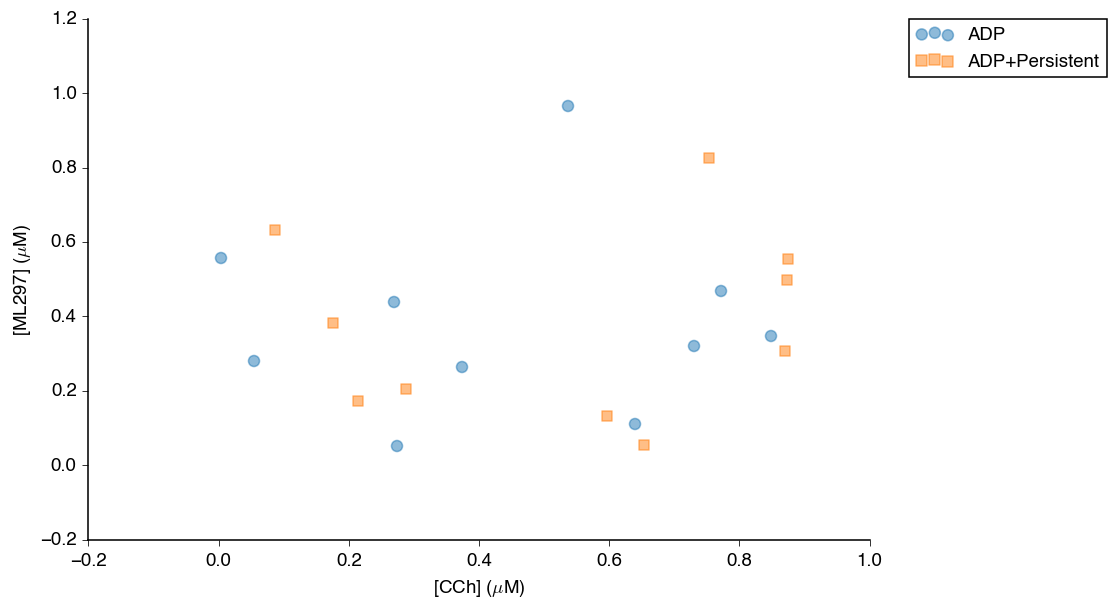
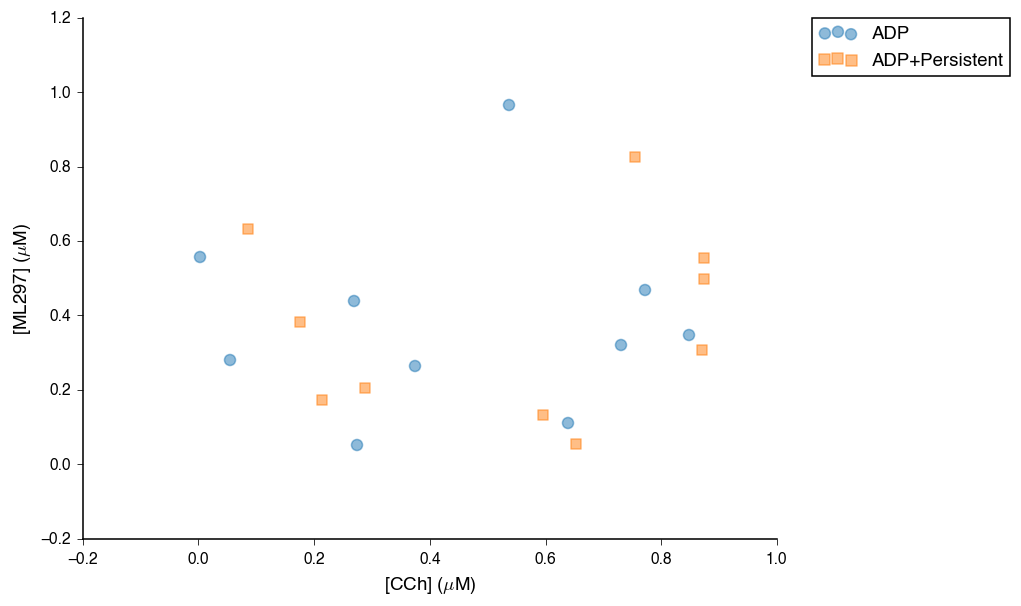
modified 070415

diff --git a/Plots/PlotStyles.py b/Plots/PlotStyles.py
@@ -11,13 +11,13 @@ from collections import OrderedDict
 
 def rgb2hex(c):
     """Convert from RGB triplets to hex string"""
-    return '#{:02x}{:02x}{:02x}'.format(c[0], c[1], c[2])
+    return('#{:02x}{:02x}{:02x}'.format(c[0], c[1], c[2]))
     
 def hex2rgb(v):
     """Convert a hex string to rgb tuple triplet"""
     v = v.lstrip('#')
     lv = len(v)
-    return tuple(int(v[i:i+lv/3], 16) for i in range(0, lv, lv/3))
+    return(tuple(int(v[i:i+lv/3], 16) for i in range(0, lv, lv/3)))
     
 def rgbdecimal2int(c):
     """ scale RGB value from [0, 1] to [0, 255]"""
@@ -26,9 +26,45 @@ def rgbdecimal2int(c):
 def rgbint2decimal(c):
     """scale RGB value from [0, 255] to [0, 1]"""
     return(c[0]/255.0, c[1]/255.0, c[2]/255.0)
+    
+def ColorBrewer(cname='PuBuGn'):
+    """http://colorbrewer2.org/, used by web designers and R's ggplot"""
+    return({
+    'BuGn' : OrderedDict([(0, (247,252,253)),(1, (229,245,249)),(2, (204,236,230)),(3, (153,216,201)),(4, (102,194,164)),(5, (65,174,118)),(6, (35,139,69)),(7, (0,109,44)),(8, (0,68,27))]),
+    'BuPu' : OrderedDict([(0, (247,252,253)),(1, (224,236,244)),(2, (191,211,230)),(3, (158,188,218)),(4, (140,150,198)),(5, (140,107,177)),(6, (136,65,157)),(7, (129,15,124)),(8, (77,0,75))]),
+    'GnBu' : OrderedDict([(0, (247,252,240)),(1, (224,243,219)),(2, (204,235,197)),(3, (168,221,181)),(4, (123,204,196)),(5, (78,179,211)),(6, (43,140,190)),(7, (8,104,172)),(8, (8,64,129))]),
+    'OrRd' : OrderedDict([(0, (255,247,236)),(1, (254,232,200)),(2, (253,212,158)),(3, (253,187,132)),(4, (252,141,89)),(5, (239,101,72)),(6, (215,48,31)),(7, (179,0,0)),(8, (127,0,0))]),
+    'PuBu' : OrderedDict([(0, (255,247,251)),(1, (236,231,242)),(2, (208,209,230)),(3, (166,189,219)),(4, (116,169,207)),(5, (54,144,192)),(6, (5,112,176)),(7, (4,90,141)),(8, (2,56,88))]),
+    'PuBuGn' : OrderedDict([(0, (255,247,251)),(1, (236,226,240)),(2, (208,209,230)),(3, (166,189,219)),(4, (103,169,207)),(5, (54,144,192)),(6, (2,129,138)),(7, (1,108,89)),(8, (1,70,54))]),
+    'PuRd' : OrderedDict([(0, (247,244,249)),(1, (231,225,239)),(2, (212,185,218)),(3, (201,148,199)),(4, (223,101,176)),(5, (231,41,138)),(6, (206,18,86)),(7, (152,0,67)),(8, (103,0,31))]),
+    'RdPu' : OrderedDict([(0, (255,247,243)),(1, (253,224,221)),(2, (252,197,192)),(3, (250,159,181)),(4, (247,104,161)),(5, (221,52,151)),(6, (174,1,126)),(7, (122,1,119)),(8, (73,0,106))]),
+    'YlGn' : OrderedDict([(0, (255,255,229)),(1, (247,252,185)),(2, (217,240,163)),(3, (173,221,142)),(4, (120,198,121)),(5, (65,171,93)),(6, (35,132,67)),(7, (0,104,55)),(8, (0,69,41))]),
+    'YlGnBu' : OrderedDict([(0, (255,255,217)),(1, (237,248,177)),(2, (199,233,180)),(3, (127,205,187)),(4, (65,182,196)),(5, (29,145,192)),(6, (34,94,168)),(7, (37,52,148)),(8, (8,29,88))]),
+    'YlOrBr' : OrderedDict([(0, (255,255,229)),(1, (255,247,188)),(2, (254,227,145)),(3, (254,196,79)),(4, (254,153,41)),(5, (236,112,20)),(6, (204,76,2)),(7, (153,52,4)),(8, (102,37,6))]),
+    'YlOrRd' : OrderedDict([(0, (255,255,204)),(1, (255,237,160)),(2, (254,217,118)),(3, (254,178,76)),(4, (253,141,60)),(5, (252,78,42)),(6, (227,26,28)),(7, (189,0,38)),(8, (128,0,38))]),
+    'Blues' : OrderedDict([(0, (247,251,255)),(1, (222,235,247)),(2, (198,219,239)),(3, (158,202,225)),(4, (107,174,214)),(5, (66,146,198)),(6, (33,113,181)),(7, (8,81,156)),(8, (8,48,107))]),
+    'Greens' : OrderedDict([(0, (247,252,245)),(1, (229,245,224)),(2, (199,233,192)),(3, (161,217,155)),(4, (116,196,118)),(5, (65,171,93)),(6, (35,139,69)),(7, (0,109,44)),(8, (0,68,27))]),
+    'Greys' : OrderedDict([(0, (255,255,255)),(1, (240,240,240)),(2, (217,217,217)),(3, (189,189,189)),(4, (150,150,150)),(5, (115,115,115)),(6, (82,82,82)),(7, (37,37,37)),(8, (0,0,0))]),
+    'Oranges' : OrderedDict([(0, (255,245,235)),(1, (254,230,206)),(2, (253,208,162)),(3, (253,174,107)),(4, (253,141,60)),(5, (241,105,19)),(6, (217,72,1)),(7, (166,54,3)),(8, (127,39,4))]),
+    'Purples' : OrderedDict([(0, (252,251,253)),(1, (239,237,245)),(2, (218,218,235)),(3, (188,189,220)),(4, (158,154,200)),(5, (128,125,186)),(6, (106,81,163)),(7, (84,39,143)),(8, (63,0,125))]),
+    'Reds' : OrderedDict([(0, (255,245,240)),(1, (254,224,210)),(2, (252,187,161)),(3, (252,146,114)),(4, (251,106,74)),(5, (239,59,44)),(6, (203,24,29)),(7, (165,15,21)),(8, (103,0,13))])
+    }.get(cname))
+    
+def Tableau(cname='tableau10'):
+    """tableau color
+    tableau20 color naming from: 
+    https://gist.github.com/Nepomuk/859fef81a912a9fe425e
+    """
+    return({
+    'tableau20':OrderedDict([('steelblue',(31, 119, 180)),('lightsteelblue',(174, 199, 232)),('darkorange',(255, 127, 14)), ('peachpuff',(255, 187, 120)), ('green',(44, 160, 44)), ('lightgreen',(152, 223, 138)),('crimson',(214, 39, 40)), ('lightcoral',(255, 152, 150)),('mediumpurple',(148, 103, 189)), ('thistle',(197, 176, 213)), ('saddlebrown',(140, 86, 75)),('rosybrown',(196, 156, 148)),('orhchid',(227, 119, 194)),('lightpink',(247, 182, 210)),('gray',(127, 127, 127)), ('lightgray',(199, 199, 199)),('olive',(188, 189, 34)),('palegoldenrod',(219, 219, 141)), ('mediumtorquoise',(23, 190, 207)),('paleturqoise',(158, 218, 229))]),
+    'tableau10':OrderedDict([('steelblue',(31,119,180)),('darkorange',(255,127,14)),('green',(44,160,44)),('crimson',(214,39,40)),('mediumpurple',(148,103,189)),('saddlebrown',(140,86,75)),('orhchid',(227,119,194)),('gray',(127,127,127)),('olive',(188,189,340)),('mediumtorquoise',(23,190,207))]),
+    'tableau10light':OrderedDict([('lightsteelblue',(174, 199, 232)),('peachpuff',(255, 187, 120)),('lightgreen',(152, 223, 138)),('lightcoral',(255, 152, 150)),('thistle',(197, 176, 213)),('rosybrown',(196, 156, 148)),('lightpink',(247, 182, 210)),('lightgray',(199, 199, 199)),('palegoldenrod',(219, 219, 141)),('paleturqoise',(158, 218, 229))]),
+    'tableau10medium':OrderedDict([('cerulean',(114,158,206)),('orange',(255,158,74)),('younggreen',(103,191,92)),('red',(237,102,93)),('violet',(173,139,201)),('cocoa',(168,120,110)),('pink',(237,151,202)),('silver',(162,162,162)),('witheredyellow',(205,204,93)),('aqua',(109,204,218))]),
+    'tableau10blind':OrderedDict([('deepskyblue4',(0, 107, 164)),('darkorange1',(255, 128,  14)),('darkgray',(171, 171, 171)),('dimgray',( 89,  89,  89)),('skyblue3',( 95, 158, 209)),('chocolate3',(200,  82,   0)),('gray',(137, 137, 137)),('slategray1',(163, 200, 236)),('sandybrown',(255, 188, 121)),('lightgray',(207, 207, 207))]),
+    'tableaugray5': OrderedDict([('gray1',(207,207,207)),('gray2',(165,172,175)),('gray3',(143,135,130)),('gray4',(96,99,106)),('gray5',(65,68,81))])
+    }.get(cname))
 
-
-def Colors(cname='tableau20_odd', returnAs='hex', returnOnly='code', invert=False):
+def Colors(cname='tableau10', Hex=True, returnOnly='code', reverseOrder=False):
     """A list of colors in RGB
     cname: color name. Default 'tableau20'
     returnOnly: ['code'|'name'], return only RGB color code or color name
@@ -36,54 +72,21 @@ def Colors(cname='tableau20_odd', returnAs='hex', returnOnly='code', invert=Fals
     Invert: (True / False) inverse the color order, default ordering from 
             light to dark hues
     """
-    # tableau20 color naming from: 
-    # https://gist.github.com/Nepomuk/859fef81a912a9fe425e
-    tableau20 = OrderedDict([('steelblue',(31, 119, 180)),
-    ('lightsteelblue',(174, 199, 232)),('darkorange',(255, 127, 14)), 
-    ('peachpuff',(255, 187, 120)), ('green',(44, 160, 44)), 
-    ('lightgreen',(152, 223, 138)),('crimson',(214, 39, 40)), 
-    ('lightcoral',(255, 152, 150)),('mediumpurple',(148, 103, 189)), 
-    ('thistle',(197, 176, 213)), ('saddlebrown',(140, 86, 75)),
-    ('rosybrown',(196, 156, 148)),('orhchid',(227, 119, 194)),
-    ('lightpink',(247, 182, 210)),('gray',(127, 127, 127)), 
-    ('lightgray',(199, 199, 199)),('olive',(188, 189, 34)),
-    ('palegoldenrod',(219, 219, 141)), ('mediumtorquoise',(23, 190, 207)),
-    ('paleturqoise',(158, 218, 229))])
-    # tableau 20 at odd index
-    tableau20_odd = OrderedDict([(k, tableau20[k]) 
-                                for k in tableau20.keys()[0::2]])
-    
-    # R's ggplot2: http://colorbrewer2.org/
-    # From light to dark ordered blue shades
-    bluegreenhue = OrderedDict([(1,(247,252,240)), (2,(224,243,219)), 
-                                (3,(204,235,197)), (4,(168,221,181)),
-                                (5,(123,204,196)), (6,(78,179,211)),
-                                (7,(43,140,190)),  (8,(8,104,172)),
-                                (9,(8,64,129))])
-    # From light to dark ordered red shades
-    redhue = OrderedDict([(1,(255,245,240)),  (2,(254,224,210)), 
-                          (3,(252,187,161)), (4,(252,146,114)),
-                          (5,(251,106,74)),  (6,(239,59,44)),
-                          (7,(203,24,29)),   (8,(165,15,21)),
-                          (9,(103,0,13))])
-    # From light to dark ordered gray shades, excluding white and black
-    grayhue = OrderedDict([(1,( 240,240,240)),  (2,(217,217,217)), 
-                           (3,(189,189,189)), (4,(150,150,150)),
-                           (5,(115,115,115)),  (6,(82,82,82))])
-    # classic MATLAB color set
-    matlab = OrderedDict([('black',(0,0,0)),('red',(255,0,0)), 
-                          ('blue',(0,0,255)), ('orange',(255,165,0)),
-                          ('green',(0,127,0)), ('cyan', (0, 191,191)),
-                          ('magenta', (191, 0, 191))])
-    # Get color
-    colors = {'tableau20':tableau20, 'tableau20_odd':tableau20_odd, 
-              'grayhue':grayhue, 'bluegreenhue':bluegreenhue, 
-              'redhue':redhue, 'matlab':matlab
-              }.get(cname,tableau20_odd)
+    if cname in ['tableau20', 'tableau10', 'tableau10light', 'tableau10medium', 'tableau10blind', 'tableaugray5']:
+        colors = Tableau(cname)
+    elif cname in ['BuGn', 'BuPu', 'GnBu', 'OrRd', 'PuBu', 'PuBuGn', 'PuRd', 'RdPu', 'YlGn', 'YlGnBu', 'YlOrBr', 'YlOrRd', 'Blues', 'Greens', 'Greys', 'Oranges', 'Purples', 'Reds']:    
+        # http://colorbrewer2.org/, used by web designers and R's ggplot
+        colors = ColorBrewer(cname)
+    else:
+        # Other custom colors
+        colors = {
+                  'matlab':OrderedDict([('black',(0,0,0)),('red',(255,0,0)),('blue',(0,0,255)), ('orange',(255,165,0)),('green',(0,127,0)), ('cyan', (0, 191,191)),('magenta', (191, 0, 191))])
+                  }.get(cname,Tableau('tableau20'))
     # invert the color order
-    if invert:
+    if reverseOrder:
         colors = OrderedDict(list(reversed(list(colors.items()))))
-    if returnAs == 'hex':
+    # convert to html hex strings
+    if Hex:
         colors = OrderedDict([(k, rgb2hex(colors[k]))
                                 for k in colors.keys()])
     # Return
@@ -114,7 +117,7 @@ def Markers(mname='filled', returnOnly='code', invert=False):
             }.get(returnOnly, markers))
 
 
-def Lines(self, lname='continuous', returnOnly='code', invert=False):
+def Lines(lname='continuous', returnOnly='code', invert=False):
     """A list of markers for line plot"""
     continuous = OrderedDict([('solid', '-'), ('dashed','--'), 
                               ('dashdot','-.'),('dotted', ':')])

diff --git a/Plots/PublicationFigures.py b/Plots/PublicationFigures.py
@@ -9,7 +9,6 @@ DEBUG = True
 import os
 import numpy as np
 from ImportData import FigureData
-import PlotStyles
 # import matplotlib
 # matplotlib.use('Agg') # use 'Agg' backend
 import matplotlib.pyplot as plt
@@ -20,9 +19,10 @@ exampleFolder = 'C:/Users/Edward/Documents/Assignments/Scripts/Python/Plots/exam
 
 # global variables
 fontname = os.path.abspath(os.path.join(os.path.dirname(__file__), 'resource/Helvetica.ttf')) # font .ttf file path
-fontsize = 12 # font size
-color = PlotStyles.Colors(cname='tableau20_odd') # color cycle
-marker = PlotStyles.Markers(mname='filled') # scatter plot line marker cycle
+fontsize = {'title':16, 'xlab':12, 'ylab':12, 'xtick':10,'ytick':10, 'texts':12, 
+            'legend': 12, 'legendtitle':12} # font size
+color = ['#1f77b4','#ff7f0e', '#2ca02c','#d62728','#9467bd','#8c564b','#e377c2','#7f7f7f','#bcbd154','#17becf'] # tableau10, or odd of tableau20
+marker = ['o', 's', 'd', '^', '*', 'p']# scatter plot line marker cycle
 
 class PublicationFigures(object):
     """Generate publicatino quantlity figures
@@ -36,7 +36,7 @@ class PublicationFigures(object):
                 Style: 'hex','swarm' (default),'center','square'
     """
     def __init__(self, dataFile=None, SavePath=None):
-        """Initialize class        
+        """Initialize class
         """
         if isinstance(dataFile, str):
             self.LoadData(dataFile) # load data
@@ -59,7 +59,8 @@ class PublicationFigures(object):
     """ ####################### Plot utilities ####################### """ 
 
     def Traces(self, groupings=None, scalebar=True, annotation=None, 
-               color=PlotStyles.Colors(cname='matlab')):
+               color=['#000000', '#ff0000', '#0000ff', '#ffa500', '#007f00', 
+               '#00bfbf', '#bf00bf']):
         """Plot time series / voltage and current traces
         groupings: grouping of y data. E.g [[1,2],[3]] will result two
         subplots, where y1 and y2 are in the same subplot above, and y3 below.
@@ -87,10 +88,9 @@ class PublicationFigures(object):
         marker = circle, pentagon, pentagram star,star, + sign
         """
         self.fig, self.axs = plt.subplots(nrows=1,ncols=1)
-        for n in range(self.data.num['x']): # add each set of data as different points
+        for n in range(self.data.num['x']): # add each set of data
             label = self.data.stats['x']['group'][n][0] \
                     if 'group' in self.data.stats['x'] else None
-            print(color[n%len(color)])
             plt.scatter(self.data.series['x'][n], 
                         self.data.series['y'][n],  alpha=0.5, s=50,
                         marker=marker[n%len(marker)], 
@@ -558,23 +558,32 @@ class PublicationFigures(object):
         if (fontname is None) and (fontsize is None):
             return
         import matplotlib.font_manager as fm
-        fontprop = fm.FontProperties(fname=fontname, size=fontsize)
         def CF(ax):
             itemDict = {'title':[ax.title], 'xlab':[ax.xaxis.label], 
                         'ylab':[ax.yaxis.label], 'xtick':ax.get_xticklabels(),
-                        'ytick':ax.get_yticklabels(), 'texts':ax.texts, 
+                        'ytick':ax.get_yticklabels(), 
+                        'texts':ax.texts if isinstance(ax.texts, np.ndarray) 
+                                or isinstance(ax.texts, list) else [ax.texts], 
                         'legend': [] if ax.legend_ is None 
                                         else ax.legend_.get_texts(), 
                         'legendtitle':[] if ax.legend_ is None 
                                             else [ax.legend_.get_title()]}
-            itemList = []
-            if items is None:
-                for v in itemDict.itervalues():
-                    itemList += v # add everything
-            else:
-                for v in items:
-                    itemList += itemDict[v] # add only specified in items
-            for item in itemList:
+            itemList, keyList = [], []
+            if items is None: # get all items
+                for k, v in list(itemDict.items()):
+                    itemList += v
+                    keyList += [k]*len(v)
+                    print(v)
+            else: # get only specified item
+                for k in items:
+                    itemList += itemDict[k] # add only specified in items
+                    keyList += [k]*len(itemDict[k])
+            for n, item in enumerate(itemList):
+                if isinstance(fontsize, dict):
+                    fontprop = fm.FontProperties(fname=fontname, 
+                                                 size=fontsize[keyList[n]])
+                elif n <1:
+                    fontprop = fm.FontProperties(fname=fontname, size=fontsize)
                 item.set_fontproperties(fontprop) # change font for all items
                 
         CF_vec = np.vectorize(CF) # vectorize the closure
@@ -605,5 +614,5 @@ if __name__ == "__main__":
         K.Scatter3D()
     # Final clean up
     K.SetFont() # change to specified font properties
-    K.fig.set_size_inches(9, 6) # set it for now.
+    K.fig.set_size_inches(8, 6) # set it for now.
     K.Save()

diff --git a/Plots/ImportData.py b/Plots/ImportData.py
@@ -173,7 +173,7 @@ class FigureData(object):
         if dataFile is not None and isinstance(dataFile, str):
             self.LoadFigureData(dataFile)        
             
-    def LoadFigureData(self, dataFile):
+    def LoadFigureData(self, dataFile, delimiter=','):
         """Read text data for figure plotting"""
           # check file exists
         if not os.path.isfile(dataFile):
@@ -185,7 +185,7 @@ class FigureData(object):
                     continue  # skip comments
                 # split comma delimited string
                 # series code, series name,@datatype, data1, data2, data3, ...
-                lst = [s.strip() for s in line.split(',')]
+                lst = [s.strip() for s in line.split(delimiter)]
                 # Parse variable
                 v = lst[0][0] # variable name
                 stats = lst[0][1:-1]
@@ -270,10 +270,6 @@ if __name__ == '__main__':
     data = NeuroData(dataFile, old=True)
     figdata = FigureData()
     figdata.Neuro2Figure(data, channels=['A','C','D'], streams=['V','C','S'])
-    # data.Voltage = {}
-    # data.Current = {}
-    # data.Stimulus = {}
-    # data.Protocol = Protocol()
     
     
     

diff --git a/Plots/archive/helpsortcolor.py b/Plots/archive/helpsortcolor.py
@@ -1,0 +1,32 @@
+# -*- coding: utf-8 -*-
+"""
+Created on Fri Jul 03 18:02:13 2015
+
+@author: Edward
+"""
+DEBUG=True
+import re
+txtdir = 'C:/Users/Edward/Documents/Assignments/Scripts/Python/Plots/resource/colorbrewer2.txt'
+
+def readColorBrewers(txtdir, lineexp=r'(\w+)(?:,|$)\[([^\]]+)\](?:,|$)\[([^\]]+)\](?:,|$)',
+                     rgbexp = r'(\d+),(\d+),(\d+)'):
+    """read color brewers text file"""
+    #colors={}
+    with open(txtdir, 'r') as fid:
+        for line in fid:
+            if not line.strip() or line[0] == "#":
+                continue  # skip comments or empty line
+            name, colorcomb, rgb  = re.findall(lineexp, line)[0]
+            # parse color list
+            rgb_list = re.findall(rgbexp, rgb)
+            # change into integer
+            rgb_list = [tuple([int(r) for r in s]) for s in rgb_list]
+            
+            
+            # print
+            rgbstr = ""
+            for n, rgb in enumerate(rgb_list):
+                rgbstr += "(%d, (%d,%d,%d))," %(n, rgb[0],rgb[1],rgb[2])
+            # print("'%s' : OrderedDict([%s])" % (name, rgbstr[:-1]))
+            print("'%s',"% (name)),
+    fid.close()
